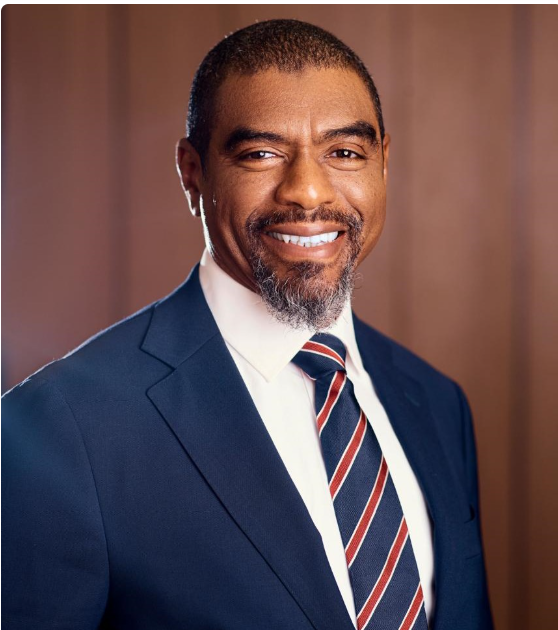
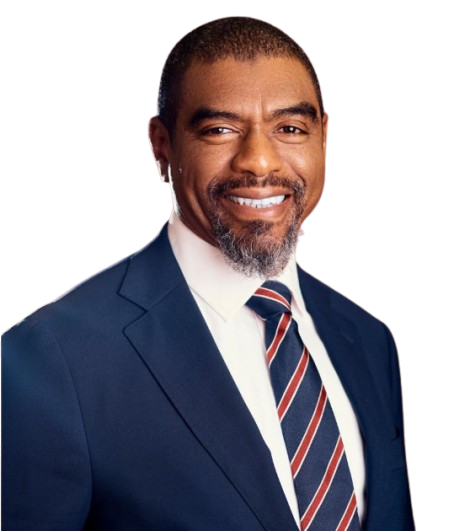
fix: directors and contact email

diff --git a/src/components/leadership.css b/src/components/leadership.css
@@ -34,7 +34,7 @@
   background: white;
   padding: 20px;
   text-align: center;
-  border-radius: 10px;
+  border-radius: 7px;
   cursor: pointer;
   transition: 0.3s ease;
   box-shadow: 0 10px 25px rgba(0,0,0,0.05);
@@ -50,16 +50,13 @@
 }
 
 .director-image {
-  width: 100%;
-  max-width: 140px;
-  height: auto;
-  aspect-ratio: 1 / 1;
+  width: 145px;
+  height: 145px;
   object-fit: cover;
-  border-radius: 50%;
+  object-position: top center;
+  border-radius: 8px;
   display: block;
   margin: 0 auto 15px;
-  object-fit: cover;
-  border-radius: 50%;
 }
 
 .director-card h3 {
@@ -68,6 +65,7 @@
 
 .director-card p {
   color: #777;
+  text-justify: auto;
 }
 
 /* Modal */
@@ -111,28 +109,35 @@
 
 .modal-header {
   display: flex;
-  gap: 30px;
+  flex-direction: row;
+  gap: 24px;
   align-items: center;
   padding-bottom: 25px;
   margin-bottom: 25px;
-  box-shadow: 0 3px 10px rgba(0,0,0,0.05);
-  border: 2px #032717;
+  border-bottom: 1px solid rgba(3, 39, 23, 0.12);
 }
-.modal-header img{
-  width: 160px;
-  height: 175px;
+
+.modal-header img {
+  width: 120px;
+  height: 140px;
   object-fit: cover;
-  border-radius: 20%;
-  padding: 20px;
+  object-position: top center;
+  border-radius: 8px;
+  flex-shrink: 0;
+  display: block;
+  margin: 0;
 }
-
-
+.modal-title {
+  display: flex;
+  flex-direction: column;
+  justify-content: center;
+}
 .modal-title h2 {
   margin-bottom: 5px;
 }
 
 .modal-title p {
-  color: #777;
+  color: #777; 
 }
 
 .modal-bio p {
@@ -279,18 +284,26 @@
     grid-template-columns: repeat(2, 1fr);
   }
 
-  .modal-header {
-    flex-direction: column;
-    text-align: center;
-  }
+.modal-header {
+  flex-direction: column;
+  align-items: center;
+  text-align: center;
+}
+.modal-header img {
+  width: 110px;
+  height: 130px;
+}
 }
 
 @media (max-width: 600px) {
   .directors-grid {
     grid-template-columns: 1fr;
   }
+  .directors-grid{
+    width: 75%;
+  }
   .director-image {
-    max-width: 120px;
+    max-width: 160px;
   }
 
   .modal-container {
@@ -298,7 +311,7 @@
   max-height: 85vh;
   }
   .modal-bio p {
-    text-align: left;
+    text-align: justify;
   }
   .modal-content{
   width: 90%;

diff --git a/src/pages/Team.jsx b/src/pages/Team.jsx
@@ -1,9 +1,7 @@
 import React, { useState, useEffect } from "react";
-import hrH from "../assets/images/team/staff/Tosin.jpg";
-import operationsH from "../assets/images/team/staff/Nura.jpg";
-import architectH from "../assets/images/team/staff/ibusi.jpg";
+import hrH from "../assets/images/team/staff/Tosin.png";
+import operationsH from "../assets/images/team/staff/Nura.png";
 import coo from "../assets/images/team/staff/joshua.jpg";
-import financeH from "../assets/images/team/staff/Saadu.jpg";
 import '../components/leadership.css';
 import bg2 from "../assets/images/bimaworld.png";
 const directors = [
@@ -25,41 +23,16 @@ const directors = [
     bio:["QS. Sani Nura Bello serves as the Head of Operations and Lead Quantity Surveyor at the company. He holds a Bachelor of Technology (B.Tech, Hons) degree in Quantity Surveying from the Federal University of Technology, Minna. In his role, Nura is responsible for overseeing all contractual aspects of construction projects.",
       "He manages project costs, ensuring that each project is delivered within budget and on schedule.",
       ] 
-  },/*
+  },
   {
     id: 3,
-    name: "Architect Ibisu Ikpesu Ephraim",
-    title: "Head, Architectural Team",
-    image: architectH,
-    bio: [ "Architect Ibisu Ikpesu Ephraim brings over nine years of experience in architectural design, project planning, and construction supervision",
-      "He specializes in CAD-based 3D visualizations and has successfully delivered detailed designs for residential developments including blocks of flats, terraces, and duplexes. His portfolio also includes the remodeling, restoration, and renovation of various buildings.",
-    ]
-  }*/
-  {
-    id: 4,
     name: "Dr. Joshua Olorunkiya",
     title: "Chief Operating Officer",
     image: coo,
     bio: [ "Dr. Joshua is a seasoned Quantity Surveyor and Project Manager with over 15 years of experience across the construction industry in Nigeria and abroad.",
       "He holds a PhD in Civil Engineering (Construction Project Management) from the University of Auckland, New Zealand, and a Master’s in Construction Contract Management (Distinction) from the University of Technology Malaysia. He also earned a B.Sc."
     ]
-  },/*
-  {
-    id: 5,
-    name: "Saadu Kamaldeen Adebayo",
-    title: "Finance Manager",
-    image: financeH,
-    bio: ["Saadu Kamaldeen Adebayo is a Chartered Accountant and Certified Procurement Professional with over 10 years of experience in finance, treasury, budget management, and procurement, with a strong focus on the public sector.",
-      "Currently, he serves as the Finance Manager at Bima Shelter Limited, where he leads initiatives in budget planning, vendor management, internal controls, and process optimization."
-    ]
-  },/*
-  {
-    id: 6,
-    name: "Director Name",
-    title: "Strategy Director",
-    image: "",
-    bio: "Biography goes here."
-  }*/
+  },
 ];
 
 function Team() {
@@ -115,7 +88,7 @@ function Team() {
         <div className="hero-divider"></div>
       </div>
 
-      <div className="scroll-indicator">
+      <div>
         <span></span>
       </div>
     </section>

diff --git a/src/pages/Leadership.jsx b/src/pages/Leadership.jsx
@@ -1,8 +1,11 @@
 import React, { useState, useEffect } from "react";
 import chairman from '../assets/images/director/Alhaji sambo.png';
 import director1 from '../assets/images/director/SMA.png';
-import director2 from '../assets/images/director/Hajiya Garba.jpg';
+import director2 from '../assets/images/director/Hajiya Garba.png';
 import director3 from '../assets/images/director/Babatunde.png';
+import director4 from '../assets/images/director/Gwarzo.png';
+import director5 from '../assets/images/director/MKAhmadbg.png';
+
 import '../components/leadership.css';
 import bg2 from "../assets/images/bimaworld.png";
 
@@ -38,7 +41,7 @@ const directors = [
       "In addition to her achievements in the hospitality industry, she holds key leadership positions in other thriving enterprises. She serves as a Director at Bima Mines Ltd. and Chemcraft Nigeria Ltd., companies actively engaged in mining and industrial services. Her involvement at the executive level reflects her deep understanding of business operations, strategic planning, and cross-sectoral management.",
       "With a broad portfolio, she brings a wealth of hands-on experience and business acumen."
     ]
-  },/*
+  },
   {
     id: 4,
     name: "Mr. Babatunde Richards Olomolehin",
@@ -51,20 +54,27 @@ const directors = [
       "His dual expertise as both developer and operator offers him a deep understanding of market dynamics, enabling him to deliver projects that are not only structurally and financially sound but also thoughtfully designed for optimal user experience."
     ]
   },
-  
+  {
     id: 5,
-    name: "Director Name",
-    title: "Development Director",
-    image: "",
-    bio: "Biography goes here."
+    name: "Mounir Haliru Gwarzo",
+    title: "Director",
+    image: director4,
+    bio: [ "With over three decades of experience, Mounir Haliru Gwarzo is a distinguished leader in Nigeria’s financial and capital market sector. He holds a degree in Economics from Bayero University Kano, with further studies in Development Finance and an MBA in Management and Leadership from UK institutions.",
+      "Mounir has held key roles across major financial institutions and served as Director-General of the Securities and Exchange Commission (2015–2020), where he led transformative reforms that enhanced market transparency, investor confidence, and regulatory efficiency.",
+      "He is a Fellow of the Chartered Institute of Stockbrokers and an alumnus of globally renowned institutions including INSEAD and Saïd Business School, University of Oxford. His career reflects a strong commitment to corporate governance, institutional development, and sustainable financial growth.",
+    ]
   },
   {
     id: 6,
-    name: "Director Name",
-    title: "Strategy Director",
-    image: "",
-    bio: "Biography goes here."
-  */
+    name: "Muhammad Kabiru Ahmad, OON",
+    title: "Director",
+    image: director5,
+    bio: [ "With over four decades of distinguished experience, Muhammad Kabiru Ahmad is a respected leader in Nigeria’s financial services and public sector landscape. He is best known as the pioneer Chief Executive Officer of the National Pension Commission (PenCom), where he led the establishment and growth of Nigeria’s pension industry into a multi-trillion-naira sector.",
+      "Ahmad has held several high-level roles across regulatory and financial institutions, including serving as a Bank Supervisor at the Nigeria Deposit Insurance Corporation and as an IMF-appointed Bank Supervisor at the Central Bank of Liberia. He also served as a Departmental Director and Board member of the Federal Inland Revenue Service, contributing significantly to public financial administration and policy.",
+      "He currently serves as Chairman and board member across multiple leading organizations, including Credent Capital & Advisory Ltd, UltraMed Hospital, MTN Nigeria Plc, and Flour Mills of Nigeria Plc. His governance expertise extends to national assignments, where he chaired the committee that produced the Nigerian Code of Corporate Governance (2018) and continues to contribute to policy and development initiatives across both federal and subnational levels.",
+      "Ahmad is widely recognized for his commitment to transparency, institutional development, and the promotion of strong corporate governance practices, consistently driving initiatives that support sustainable economic growth and nation-building.",
+    ]
+  },  
 ];
 
 function Leadership() {

diff --git a/src/components/Proplist.jsx b/src/components/Proplist.jsx
@@ -160,18 +160,6 @@ const properties = [
   },  
   {
     id: 10,
-    title: 'Park Springs III',
-    image: property8,
-    type: 'villa',
-    route: '/coming-soon',
-    subtitle: 'Maitama, Abuja',
-    availability: '8 & 6 bedroom fully detached villas currently under construction',
-    bedrooms: 7,
-    bathrooms: 8,
-    badge: 'FEATURED',
-  },
-  {
-    id: 11,
     title:'Lake Chad',
     image: property7,
     type: 'terrace',

diff --git a/src/communities/comstyle.css b/src/communities/comstyle.css
@@ -530,7 +530,7 @@
 .pv-cta__btn:hover {
   background: var(--pv-green-light);
   transform: translateY(-2px);
-  box-shadow: 0 8px 24px rgb(184, 150, 46);
+  box-shadow: 0 8px 24px rgb(255, 255, 255);
 }
 
 /* ════════════════════════════════════════════════